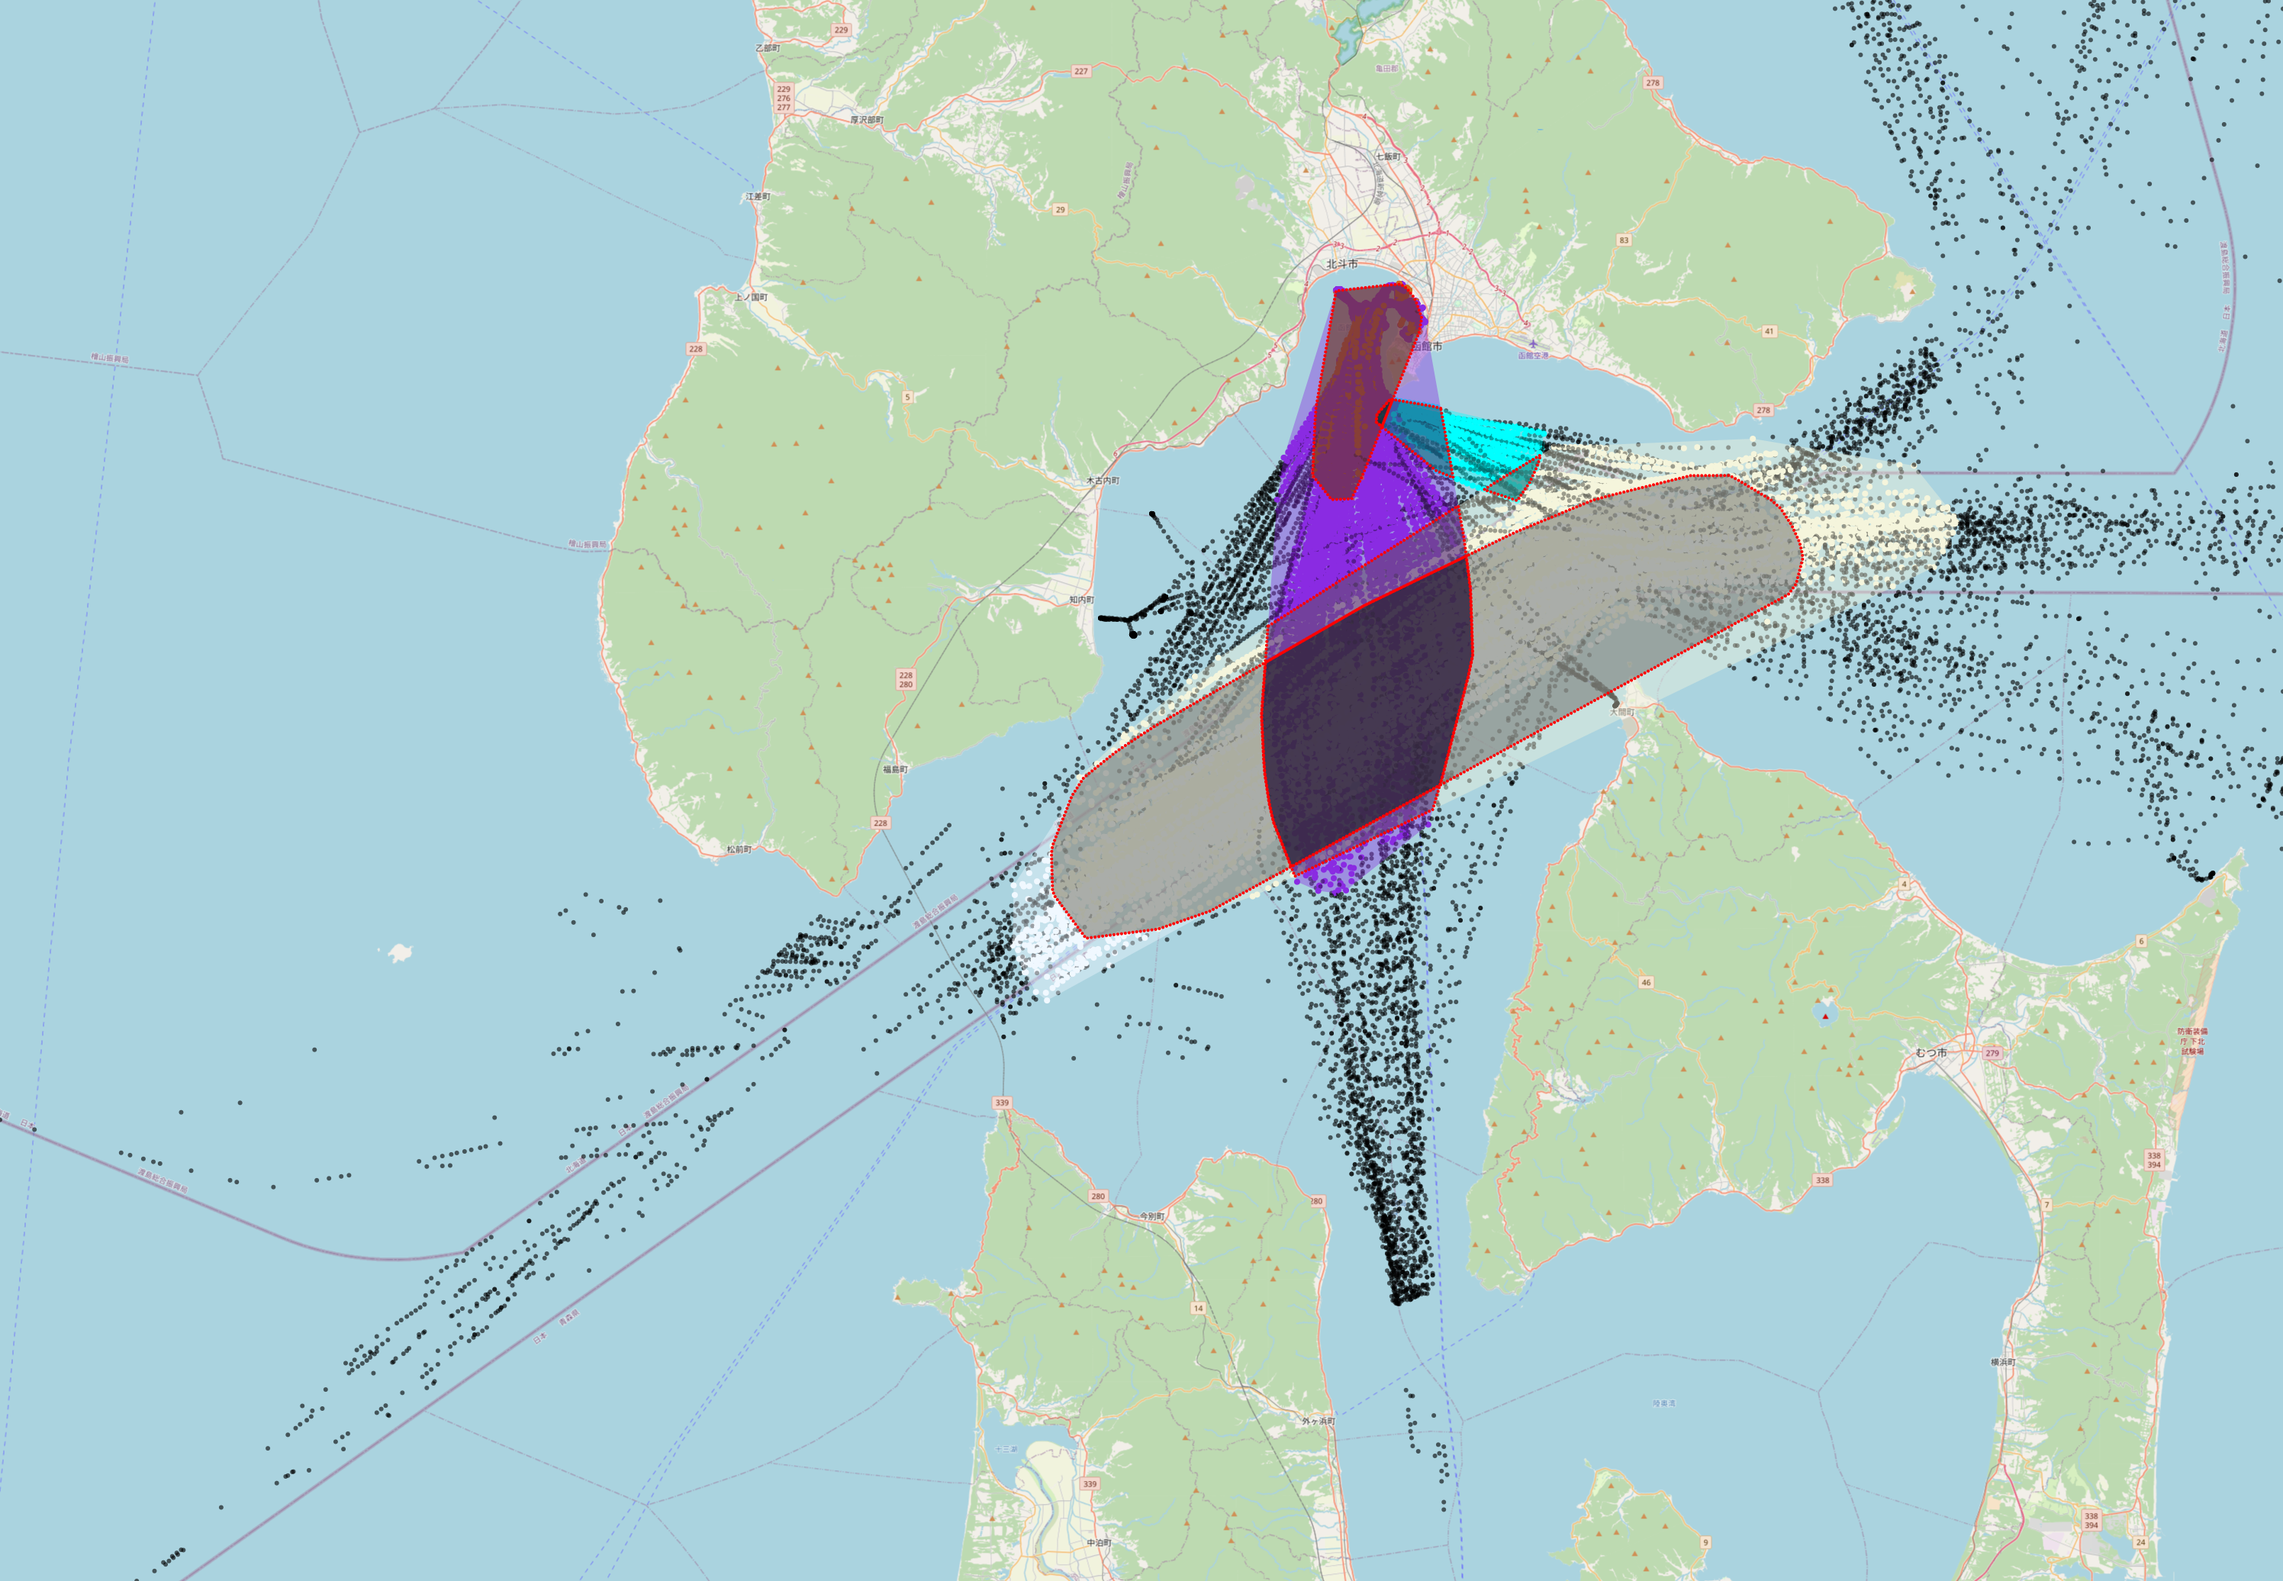
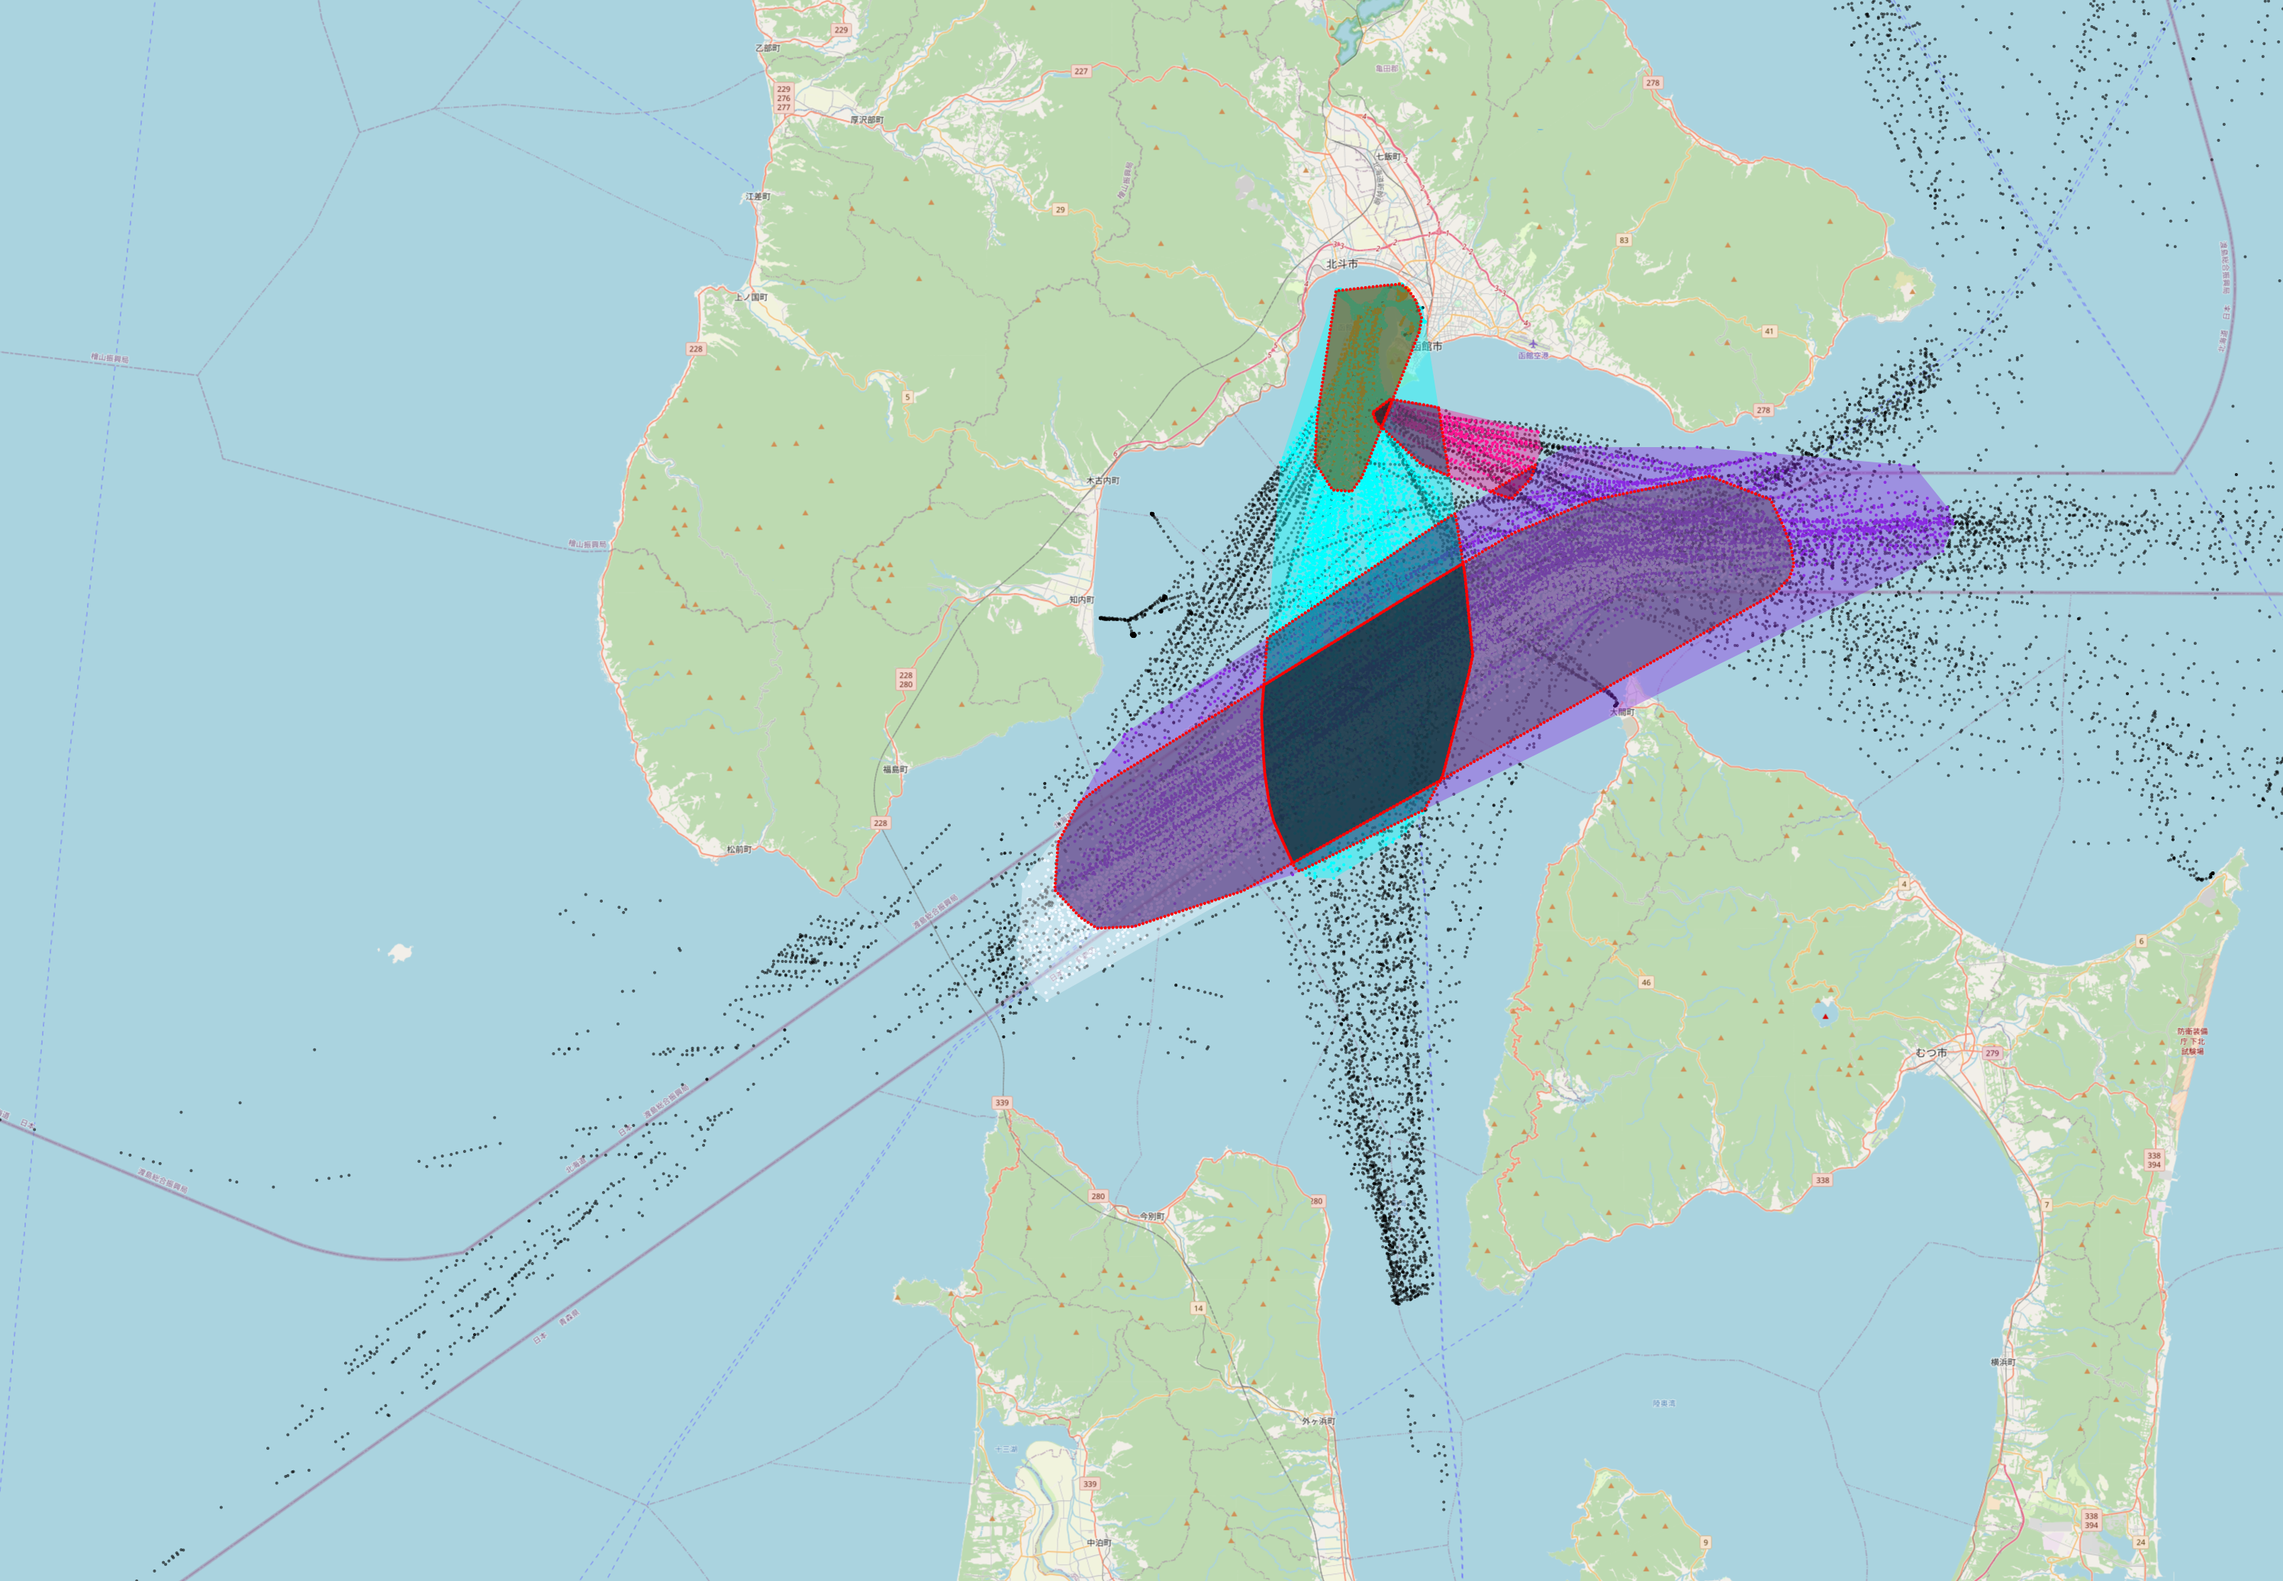
Уменьшен размер точек, подвинуты цвета (color_costyl=10)

diff --git a/CODE/Map/map.py b/CODE/Map/map.py
@@ -25,7 +25,7 @@ def get_colors():
 
 
 colors = get_colors()
-color_costyl = 5
+color_costyl = 10
 
 
 class MapBuilder:
@@ -73,13 +73,13 @@ class MapBuilder:
                 green = colors[-1][1]
                 blue = colors[-1][2]
                 alpha = 0.6
-                r = 3
+                r = 2
             else:
                 red = colors[int(row[2]) * color_costyl][0]
                 green = colors[int(row[2]) * color_costyl][1]
                 blue = colors[int(row[2]) * color_costyl][2]
                 alpha = 1
-                r = 4
+                r = 2
             self.context.arc(row[0], row[1], r, 0 * math.pi / 180, 360 * math.pi / 180)
             self.context.set_source_rgba(red, green, blue, alpha)
             self.context.fill()
